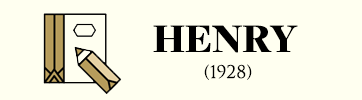
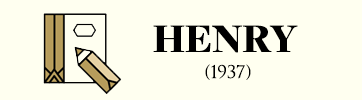
Updated Henry date in line with research

Changed region(s): [[0.547, 0.63, 0.6989, 0.81]]

diff --git a/README.md b/README.md
@@ -4,7 +4,8 @@
 This is an interactive fiction experiment exploring the same space from multiple perspectives, written as part of my ongoing MA study at the Manchester Writing School. 
 
 The Grand is a seaside hotel being used in 2022 as a refugee shelter. This short interactive work allows you to explore the hotel and it's inhabitants from the perspectives of:
-- Ruby (at a wedding in the hotel as a teenager, 1991)
+- Henry (a journalist covering the hotel opening, 1937)
+- Ruby (attending a wedding in the hotel as a teenager, 1991)
 - Yusuf (an incoming refugee housed in the hotel, 2022)
 
 At any point you can switch character perspective to re-examine the space through different eyes. Your location in the physical space will stay the same, but your viewpoint and chronological point will change. 
